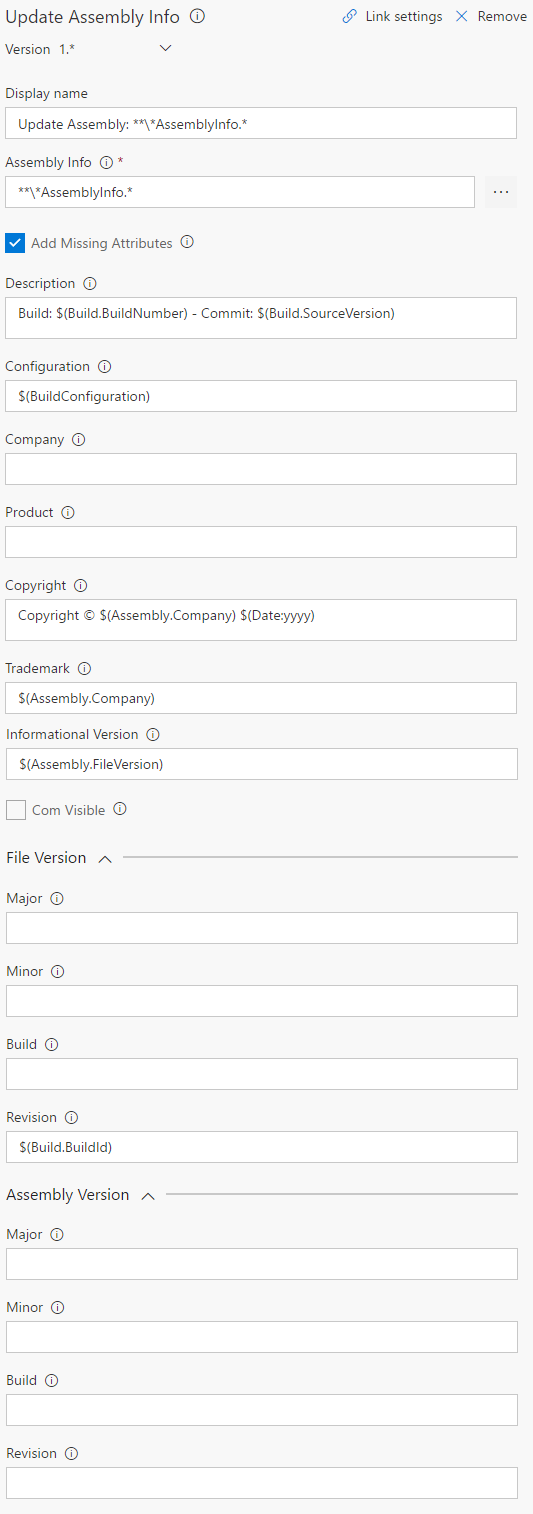
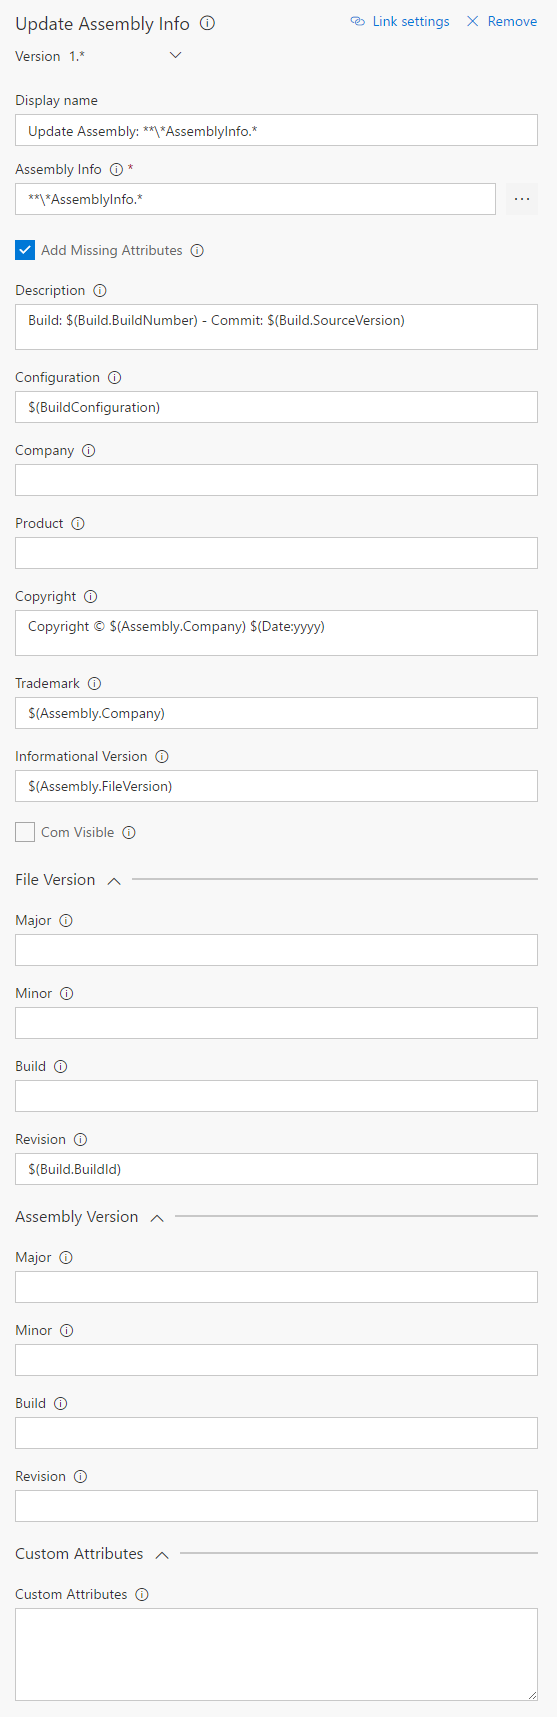
mardown update

diff --git a/Extension/overview.md b/Extension/overview.md
@@ -85,6 +85,12 @@ Parameters include:
 * **Assembly Version - Minor**: Left blank, the value is not updated. Variables can be used, eg. `$(Build.BuildId)`. Must be a numeric value.
 * **Assembly Version - Build**: Left blank, the value is not updated. Variables can be used, eg. `$(Build.BuildId)`. Must be a numeric value.
 * **Assembly Version - Revision**: Left blank, the value is not updated. Variables can be used, eg. `$(Build.BuildId)`. Must be a numeric value.
+* **Custom Attributes**: Input custom attribute and value in format `AttributeName=AttributeValue`. Use a new line for each new custom attribute.
+Example:
+`AttributeName1=AttributeValue1`
+`AttributeName2=AttributeValue2`
+`AttributeName3=AttributeValue3`
+Left blank, the value is not updated. Variables can be used.
 
 ## Changelog
 * **2.0.23**: Added $(Rev) variable.
